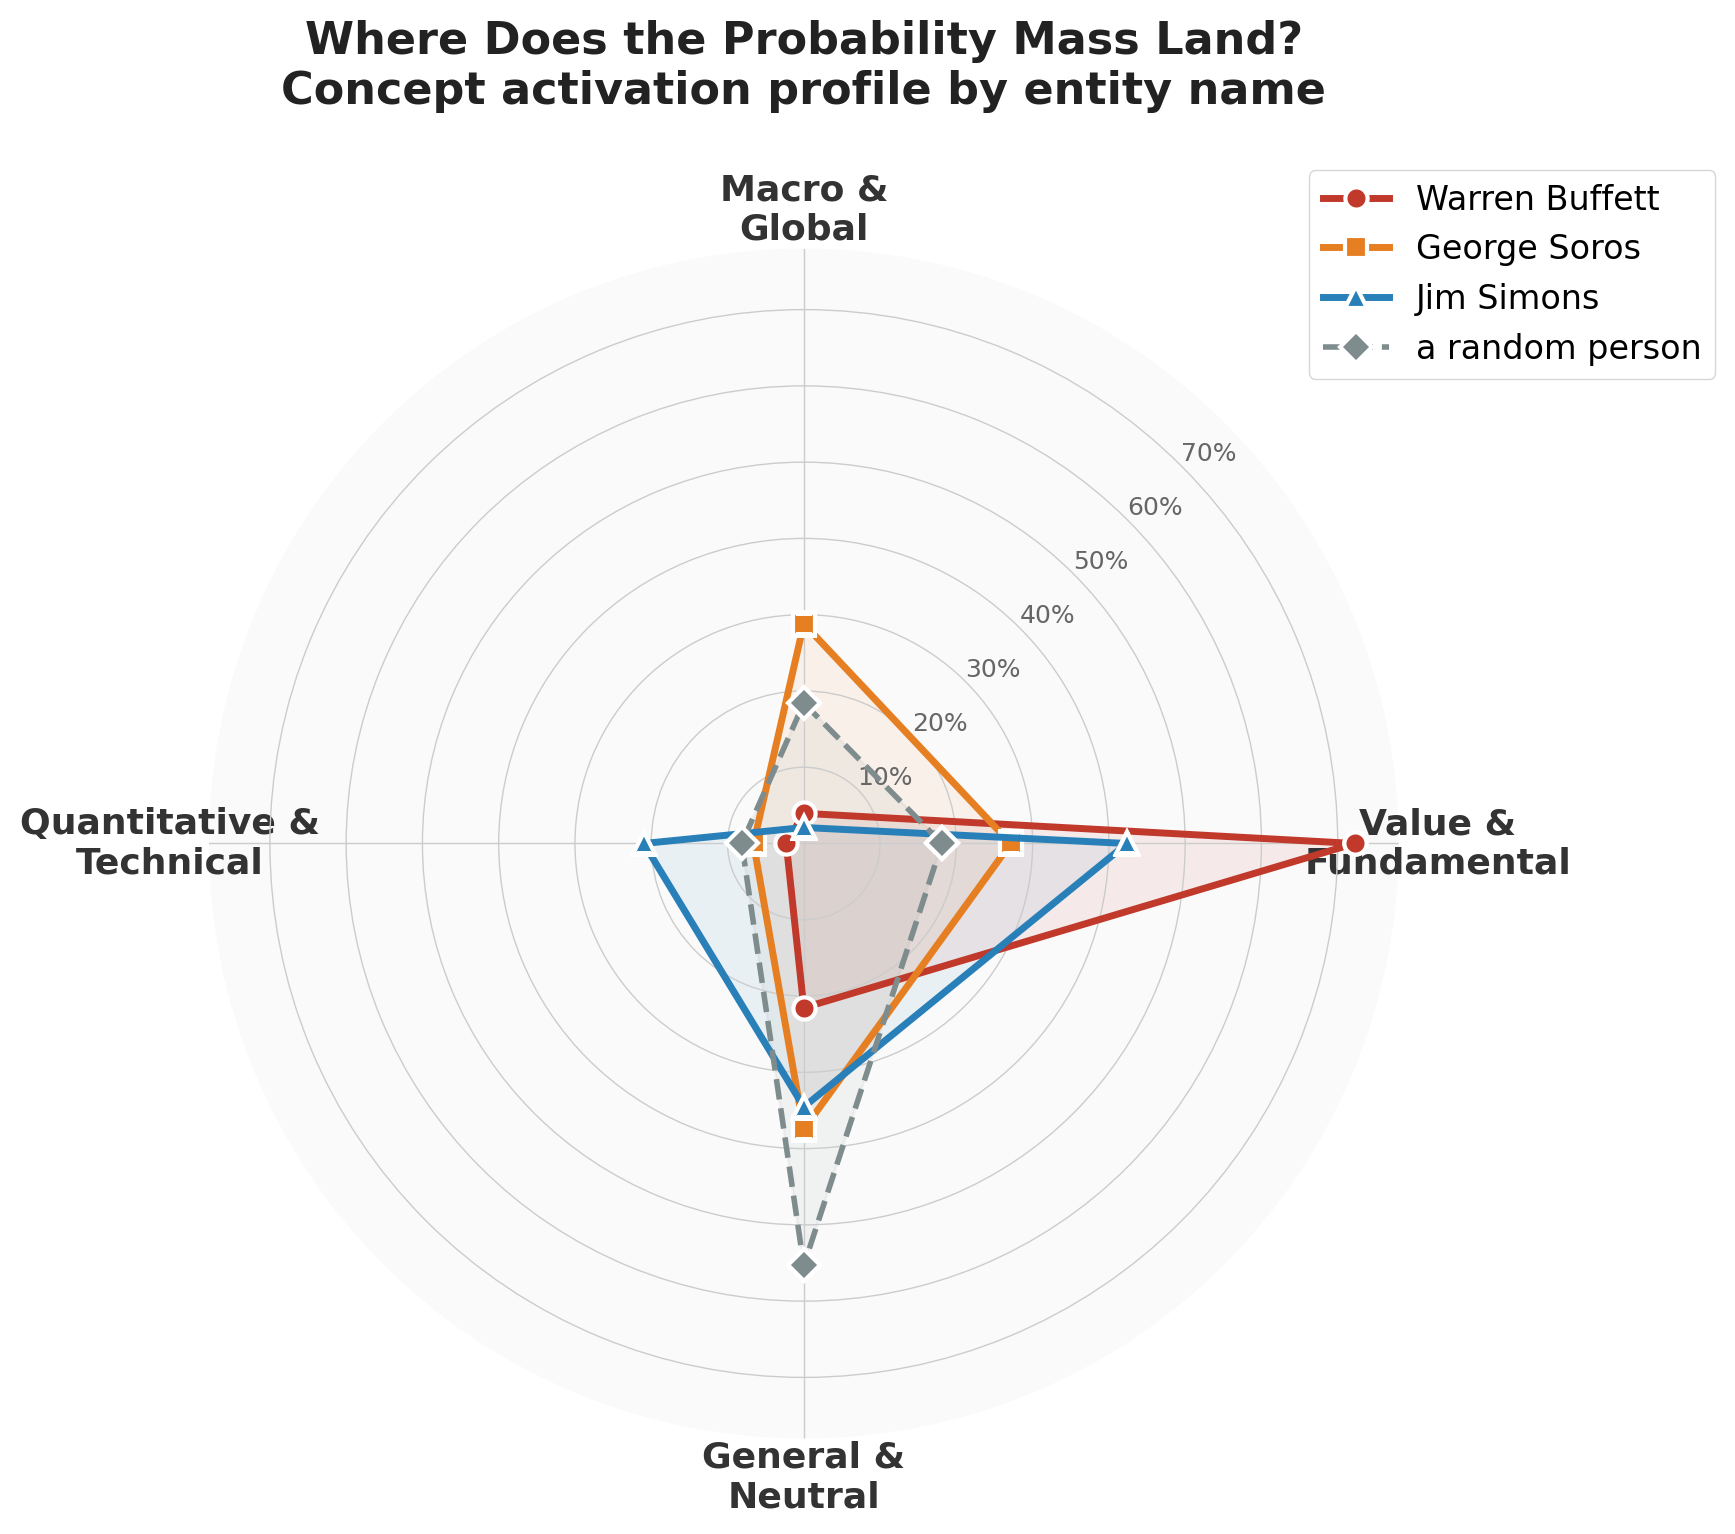
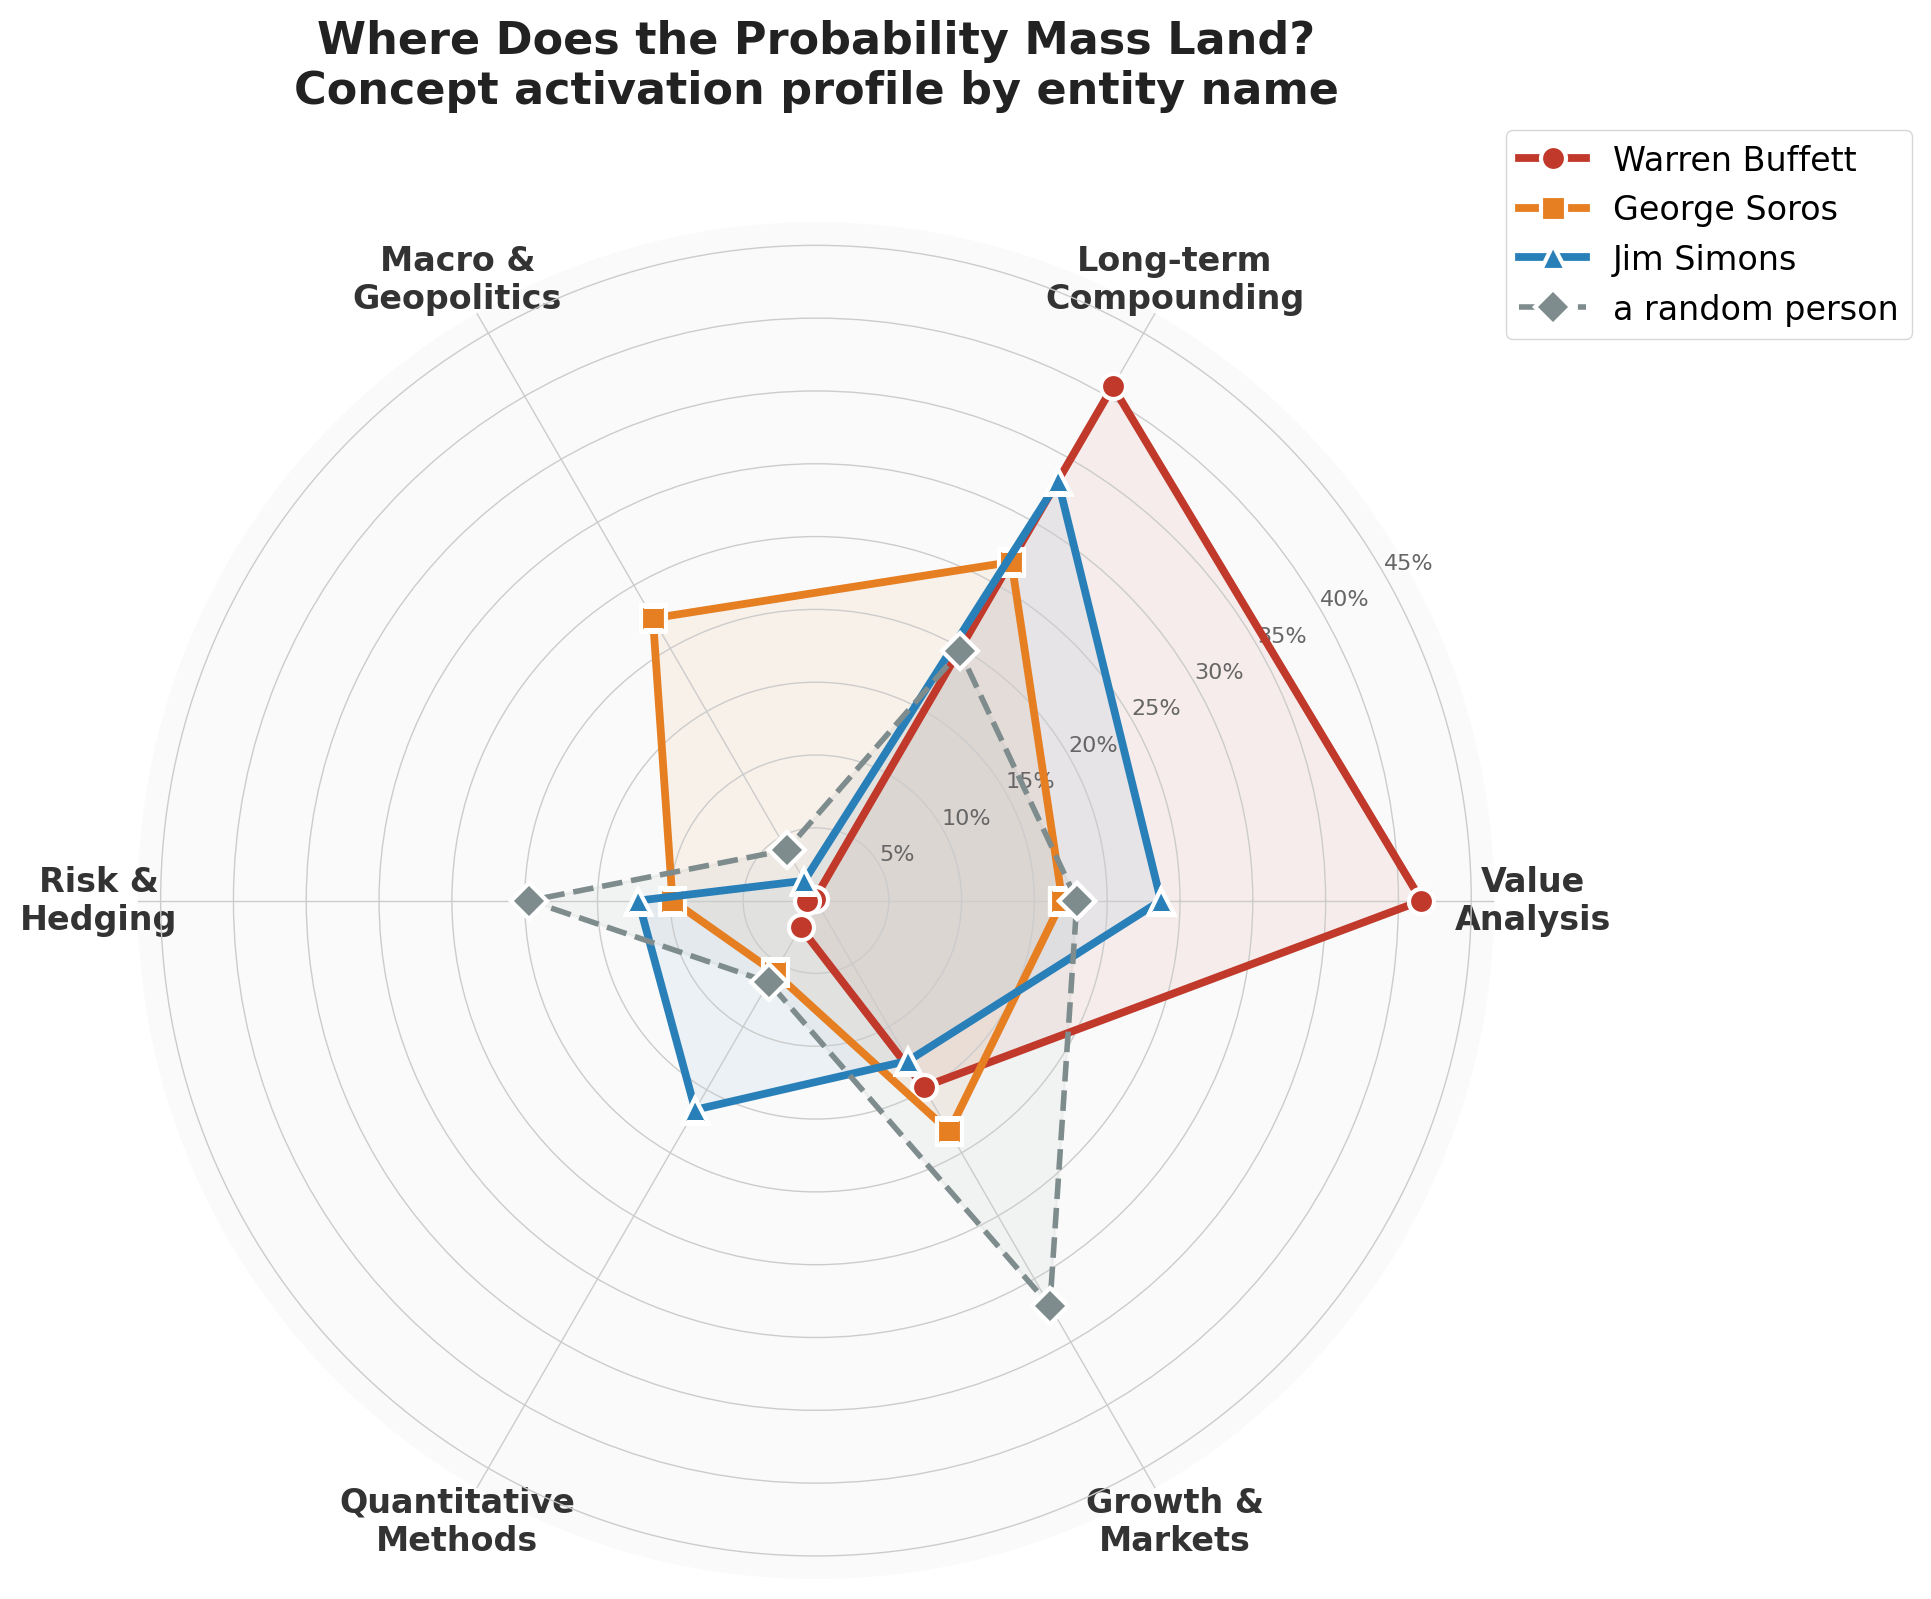
Improved radar chart: 6 meaningful axes instead of 4
Split concepts into Value Analysis, Long-term Compounding,
Macro & Geopolitics, Risk & Hedging, Quantitative Methods,
and Growth & Markets. Removed uninformative General/Neutral bucket.

diff --git a/radar_v2.py b/radar_v2.py
@@ -1,0 +1,123 @@
+"""
+Radar chart v2: 6 meaningful concept axes instead of 4.
+Drop the uninformative "General/Neutral" bucket and split into
+more specific investment philosophy dimensions.
+"""
+
+import json
+import numpy as np
+import matplotlib
+matplotlib.use('Agg')
+import matplotlib.pyplot as plt
+
+# Load raw per-concept probabilities
+with open("/Users/x/src/lang-tokens/manifold_results.json") as f:
+    results = json.load(f)
+
+persona_avg_probs = results["persona_avg_probs"]
+
+# New 6-axis grouping — each axis is a recognizable investment dimension
+concept_axes = {
+    "Value\nAnalysis": [
+        "value", "intrinsic", "undervalued", "moat", "margin",
+        "fundamental", "earnings", "book",
+    ],
+    "Long-term\nCompounding": [
+        "compounding", "patience", "durable", "ownership",
+        "dividends", "conservative", "quality",
+    ],
+    "Macro &\nGeopolitics": [
+        "currency", "macro", "sovereign", "geopolitical",
+        "reflexivity", "global", "crisis", "emerging",
+    ],
+    "Risk &\nHedging": [
+        "hedge", "derivatives", "options", "leverage",
+        "volatility", "arbitrage", "speculation",
+    ],
+    "Quantitative\nMethods": [
+        "algorithmic", "quantitative", "statistical",
+        "systematic", "correlation", "signals", "frequency", "momentum",
+    ],
+    "Growth &\nMarkets": [
+        "growth", "stocks", "market", "capital",
+        "portfolio", "index", "returns",
+    ],
+}
+
+# Compute group mass for each persona
+axis_names = list(concept_axes.keys())
+n_axes = len(axis_names)
+
+personas_to_plot = [
+    ("Warren Buffett", '#c0392b', '-', 'o', 2.8),
+    ("George Soros", '#e67e22', '-', 's', 2.8),
+    ("Jim Simons", '#2980b9', '-', '^', 2.8),
+    ("a random person", '#7f8c8d', '--', 'D', 2.0),
+]
+
+# Compute normalized mass per axis
+persona_axis_mass = {}
+for persona, *_ in personas_to_plot:
+    total = 0
+    axis_totals = {}
+    for axis, concepts in concept_axes.items():
+        s = sum(persona_avg_probs[persona].get(c, 0) for c in concepts)
+        axis_totals[axis] = s
+        total += s
+    # Normalize so axes sum to 1
+    persona_axis_mass[persona] = {ax: v / total if total > 0 else 0
+                                   for ax, v in axis_totals.items()}
+
+# Print for reference
+for persona, *_ in personas_to_plot:
+    print(f"\n{persona}:")
+    for ax in axis_names:
+        bar = "#" * int(persona_axis_mass[persona][ax] * 100)
+        print(f"  {ax:20s}: {persona_axis_mass[persona][ax]:.3f}  {bar}")
+
+# Build radar
+angles = np.linspace(0, 2 * np.pi, n_axes, endpoint=False).tolist()
+angles += angles[:1]
+
+fig, ax = plt.subplots(figsize=(10, 10), subplot_kw=dict(polar=True))
+ax.set_facecolor('#fafafa')
+
+# Grid styling
+ax.set_rlabel_position(30)
+ax.yaxis.grid(True, color='#cccccc', linewidth=0.5)
+ax.xaxis.grid(True, color='#cccccc', linewidth=0.5)
+ax.spines['polar'].set_visible(False)
+
+for persona, color, ls, marker, lw in personas_to_plot:
+    values = [persona_axis_mass[persona][ax] for ax in axis_names]
+    values += values[:1]
+    ax.plot(angles, values, ls, linewidth=lw, label=persona, color=color,
+            marker=marker, markersize=9, markeredgecolor='white', markeredgewidth=1.5, zorder=5)
+    ax.fill(angles, values, alpha=0.07, color=color)
+
+ax.set_xticks(angles[:-1])
+ax.set_xticklabels(axis_names, fontsize=12, fontweight='bold', color='#333')
+
+# Radial ticks — adjusted for the new scale
+max_val = max(persona_axis_mass[p][ax]
+              for p, *_ in personas_to_plot
+              for ax in axis_names)
+tick_step = 0.05
+ticks = np.arange(tick_step, max_val + tick_step * 2, tick_step)
+ax.set_yticks(ticks)
+ax.set_yticklabels([f'{t:.0%}' for t in ticks], fontsize=8, color='#666')
+ax.set_ylim(0, max_val + 0.05)
+
+ax.set_title("Where Does the Probability Mass Land?\n"
+             "Concept activation profile by entity name\n",
+             fontsize=16, fontweight='bold', pad=25, color='#222')
+
+legend = ax.legend(loc='upper right', bbox_to_anchor=(1.32, 1.08), fontsize=12,
+                   frameon=True, fancybox=True, shadow=False,
+                   edgecolor='#cccccc', facecolor='white')
+legend.get_frame().set_linewidth(0.5)
+
+plt.tight_layout()
+plt.savefig("/Users/x/src/lang-tokens/manifold_radar_final.png", dpi=200, bbox_inches='tight',
+            facecolor='white')
+print("\nSaved: manifold_radar_final.png")
